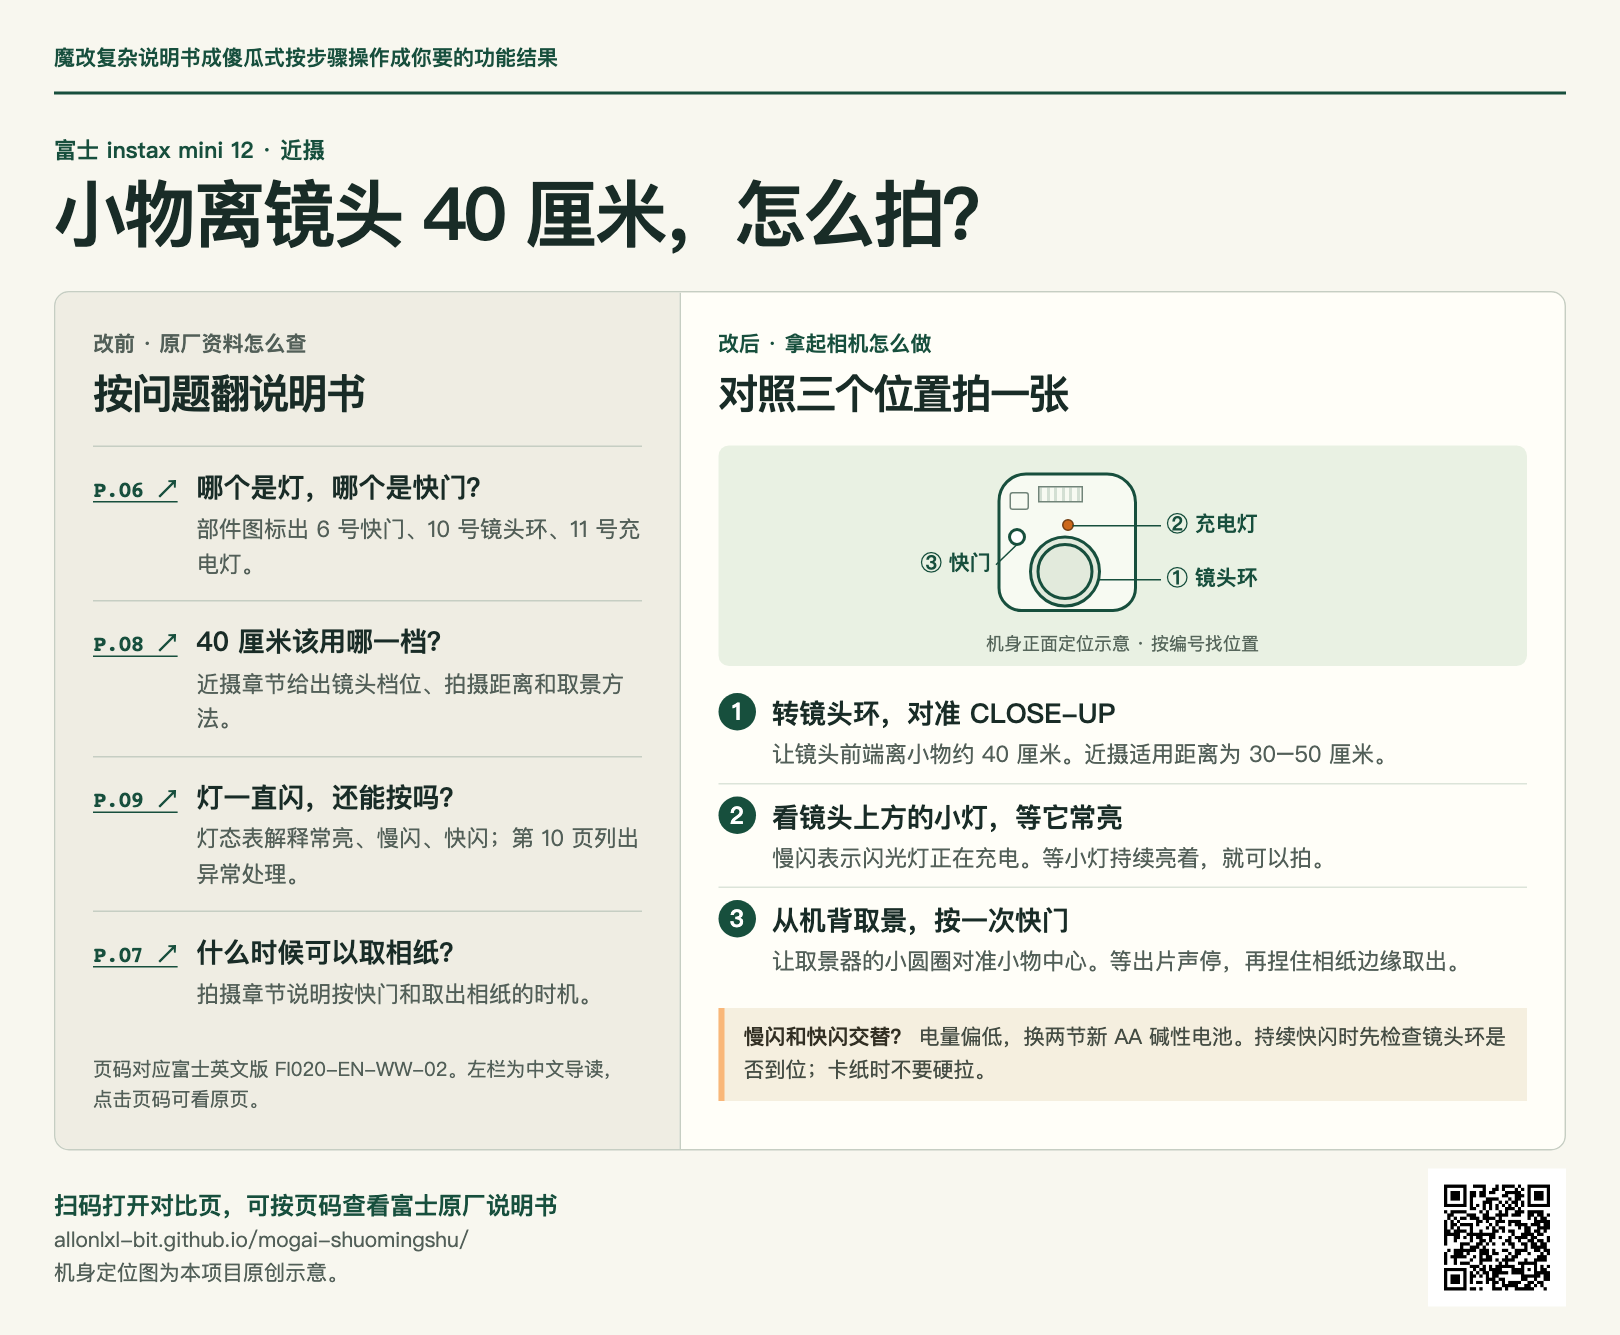
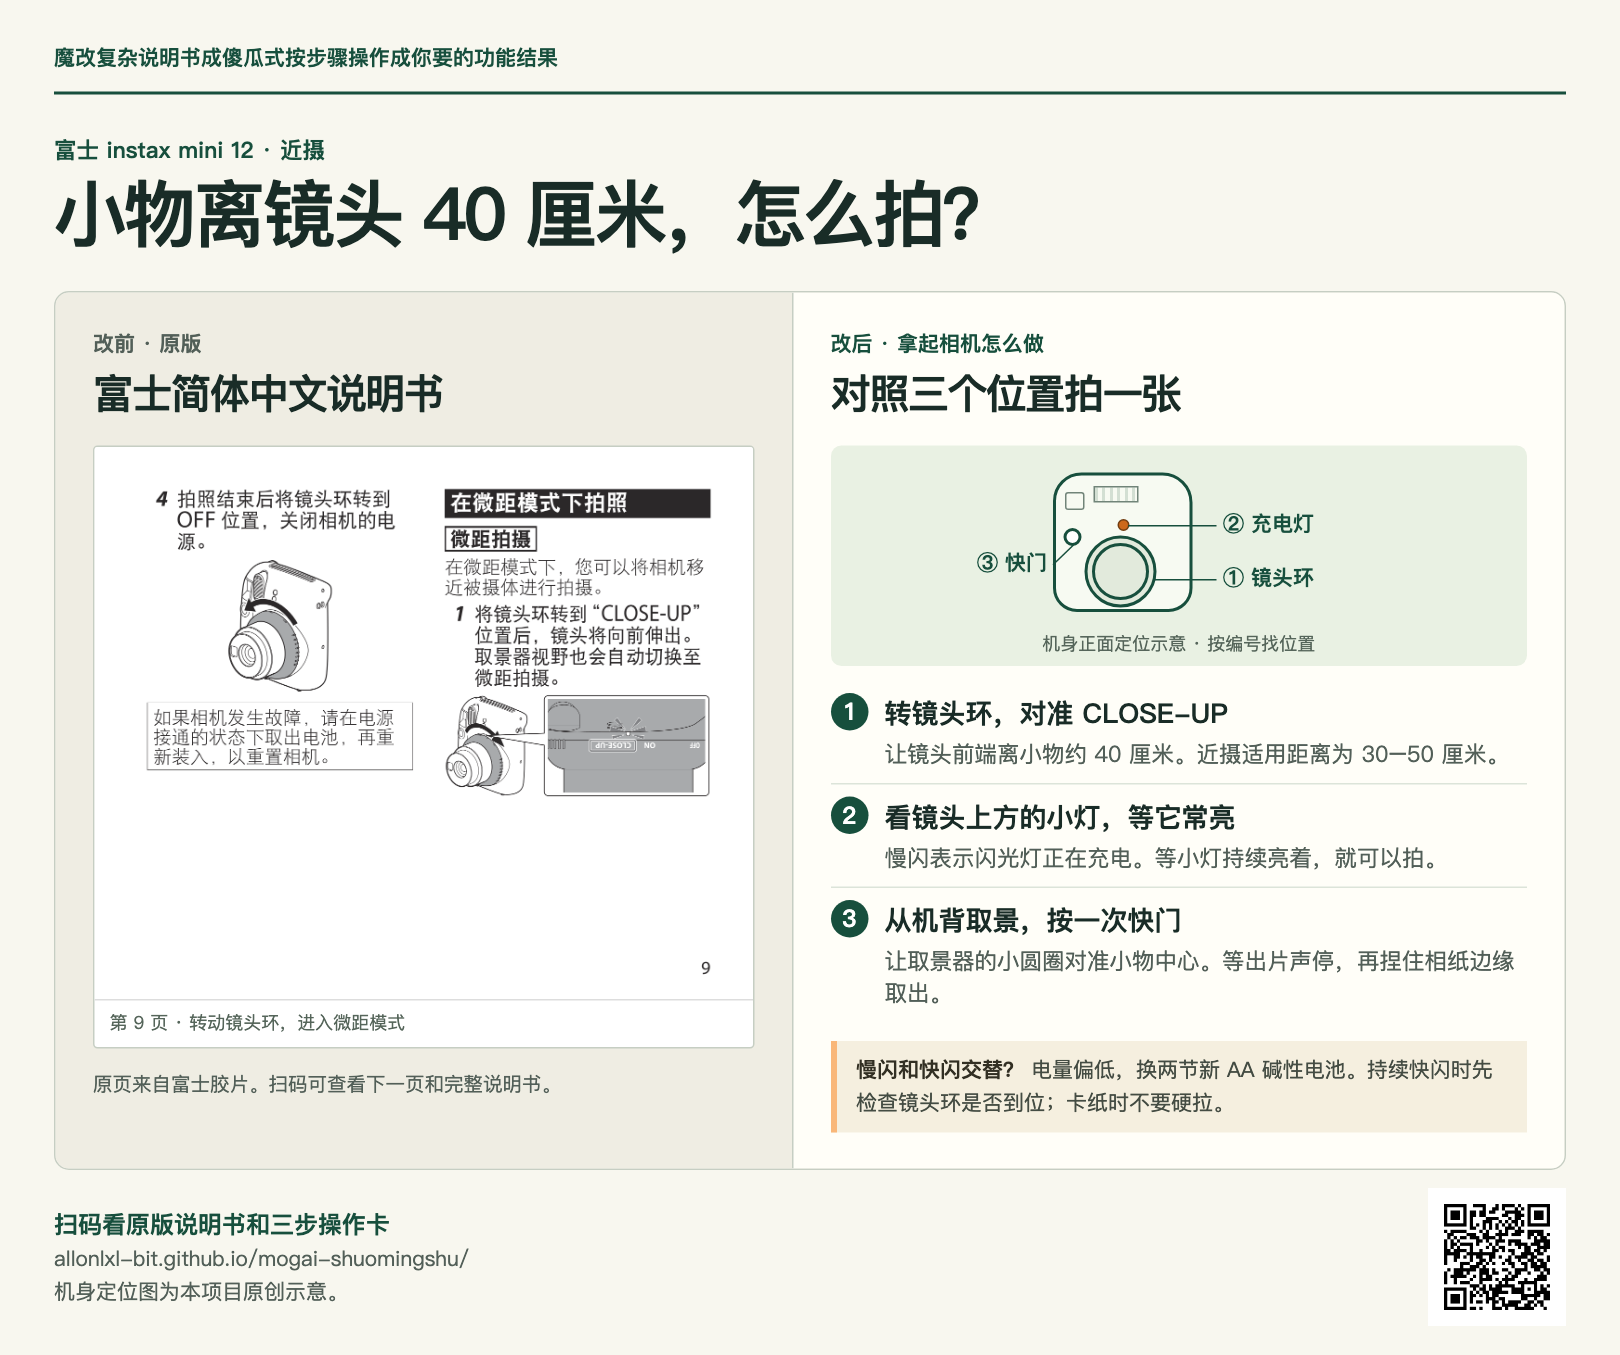
Show the original Fujifilm Chinese manual beside the close-up guide

diff --git a/docs/index.html b/docs/index.html
@@ -4,20 +4,21 @@
 <meta charset="utf-8">
 <meta name="viewport" content="width=device-width, initial-scale=1">
 <title>改前与改后：富士 mini 12 怎么拍好 40 厘米处的小物？</title>
-<meta name="description" content="同一个近摄问题，对照富士 mini 12 原厂手册页码和三步中文操作卡，找到镜头环、充电灯和快门。">
+<meta name="description" content="同一个近摄问题，对照富士 mini 12 原厂说明书原页和三步中文操作卡，找到镜头环、充电灯和快门。">
 <meta property="og:title" content="同一本说明书，改成三步就能照着拍">
 <meta property="og:description" content="富士 instax mini 12 实例：镜头转到哪一档，看到哪盏灯才按快门。">
 <meta property="og:type" content="website">
 <meta property="og:image" content="https://allonlxl-bit.github.io/mogai-shuomingshu/mini12-comparison.png">
-<meta property="og:image:alt" content="富士 mini 12 近摄，原厂手册阅读路径与三步操作卡并列对照">
+<meta property="og:image:alt" content="富士 mini 12 近摄，富士中文版原页与三步操作卡并列对照">
 <meta name="twitter:card" content="summary_large_image">
 <style>
 :root{--ink:#192c27;--green:#174f3d;--soft:#e9f1e3;--muted:#525f58;--rule:#c6cec3;--paper:#f8f7ef;--orange:#f9b779}
-*{box-sizing:border-box}body{margin:0;background:var(--paper);color:var(--ink);font:16px/1.55 "Inter","PingFang SC","Microsoft YaHei",sans-serif}main{max-width:1080px;margin:auto;padding:28px 36px 18px}a{color:inherit;text-underline-offset:.2em;text-decoration-thickness:1px}a:hover{color:#126840}a:focus-visible{outline:3px solid #ba580e;outline-offset:3px}.mast{display:flex;justify-content:space-between;gap:14px;align-items:baseline;border-bottom:2px solid var(--green);padding-bottom:11px;font-size:14px}.mast b{color:var(--green)}.mast a{white-space:nowrap}.intro{padding:25px 0 22px}.intro p{margin:0 0 3px;color:var(--green);font-size:15px;font-weight:700}h1{font-size:clamp(30px,4.5vw,49px);margin:0;line-height:1.2;letter-spacing:-.045em}h1 span{white-space:nowrap}.columns{display:grid;grid-template-columns:.88fr 1.25fr;border:1px solid var(--rule);border-radius:10px;overflow:hidden}.pane{padding:24px 25px}.before{background:#efede3}.after{background:#fffef8;border-left:1px solid var(--rule)}.kicker{margin:0;color:var(--muted);font-size:14px;font-weight:700}.after .kicker{color:var(--green)}h2{font-size:clamp(22px,2.5vw,29px);margin:1px 0 13px;letter-spacing:-.04em}.pages{list-style:none;margin:0;padding:0}.pages li{display:grid;grid-template-columns:59px 1fr;gap:10px;align-items:baseline;padding:13px 0;border-top:1px solid var(--rule)}.pages a{font:700 15px/1.3 ui-monospace,monospace;letter-spacing:-.04em;color:var(--green)}.pages strong{display:block;font-size:18px}.pages p,.steps p{margin:2px 0 0;color:var(--muted);font-size:15px}.source{margin:15px 0 0;font-size:13px;color:var(--muted)}
+*{box-sizing:border-box}body{margin:0;background:var(--paper);color:var(--ink);font:16px/1.55 "Inter","PingFang SC","Microsoft YaHei",sans-serif}main{max-width:1080px;margin:auto;padding:28px 36px 18px}a{color:inherit;text-underline-offset:.2em;text-decoration-thickness:1px}a:hover{color:#126840}a:focus-visible{outline:3px solid #ba580e;outline-offset:3px}.mast{display:flex;justify-content:space-between;gap:14px;align-items:baseline;border-bottom:2px solid var(--green);padding-bottom:11px;font-size:14px}.mast b{color:var(--green)}.mast a{white-space:nowrap}.intro{padding:25px 0 22px}.intro p{margin:0 0 3px;color:var(--green);font-size:15px;font-weight:700}h1{font-size:clamp(30px,4.5vw,49px);margin:0;line-height:1.2;letter-spacing:-.045em}h1 span{white-space:nowrap}.columns{display:grid;grid-template-columns:1fr 1.05fr;border:1px solid var(--rule);border-radius:10px;overflow:hidden}.pane{padding:24px 25px}.before{background:#efede3}.after{background:#fffef8;border-left:1px solid var(--rule)}.kicker{margin:0;color:var(--muted);font-size:14px;font-weight:700}.after .kicker{color:var(--green)}h2{font-size:clamp(22px,2.5vw,29px);margin:1px 0 13px;letter-spacing:-.04em}.steps p{margin:2px 0 0;color:var(--muted);font-size:15px}.source{margin:15px 0 0;font-size:13px;color:var(--muted)}
 figure{margin:0 0 10px;background:var(--soft);border-radius:7px;padding:9px 12px 6px}.diagram{height:114px;width:265px;max-width:100%;position:relative;margin:auto}.body{position:absolute;left:49px;top:9px;width:93px;height:93px;border:2px solid var(--green);border-radius:19px 20px 16px 16px;background:#f7faf2}.lens{position:absolute;left:70px;top:51px;width:48px;height:48px;border:7px double var(--green);border-radius:50%;background:#e2eadc}.shutter{position:absolute;left:56px;top:46px;width:12px;height:12px;background:#fff;border:2px solid var(--green);border-radius:50%}.lamp{position:absolute;left:92px;top:40px;width:8px;height:8px;background:#cc681b;border:1px solid #713d12;border-radius:50%}.view{position:absolute;left:57px;top:22px;width:13px;height:12px;border:1px solid #718479;border-radius:2px}.flash{position:absolute;left:76px;top:18px;width:30px;height:11px;border:1px solid #718479;background:repeating-linear-gradient(90deg,#d3dfd3 0 2px,transparent 2px 5px)}.call{position:absolute;padding:0 4px;background:var(--soft);color:var(--green);font-size:14px;font-weight:700;white-space:nowrap}.call:before{content:"";position:absolute;top:50%;border-top:1px solid var(--green)}.c1{left:158px;top:69px}.c1:before{width:42px;left:-42px}.c2{left:158px;top:33px}.c2:before{width:59px;left:-59px}.c3{left:-6px;top:59px}.c3:before{width:19px;left:100%;transform:rotate(-44deg);transform-origin:left center}figcaption{text-align:center;color:#55655a;font-size:12px}
 .steps{list-style:none;padding:0;margin:0}.steps li{display:grid;grid-template-columns:27px 1fr;gap:9px;padding:8px 0;border-bottom:1px solid #dce4d9}.steps li:last-child{border:0}.num{width:25px;height:25px;text-align:center;color:white;background:var(--green);border-radius:50%;font-weight:700;line-height:25px}.steps strong{font-size:18px}.steps p{line-height:1.45}.trouble{margin-top:13px;border-left:4px solid var(--orange);background:#f5efdf;padding:9px 13px;color:#444c43;font-size:14px}.trouble strong{color:#322f23}.links{display:flex;justify-content:space-between;gap:15px;align-items:baseline;padding-top:15px;font-size:14px}.links p{margin:0;color:var(--muted)}.links a{font-weight:650}.download{white-space:nowrap}
-@media(max-width:720px){main{padding:16px 14px}.mast{font-size:12px}.intro{padding:16px 0}.columns{grid-template-columns:1fr}.pane{padding:17px 18px}.after{border-left:0;border-top:1px solid var(--rule)}.pages li{padding:7px 0}.pages strong,.steps strong{font-size:17px}.links{flex-wrap:wrap}.source{margin-top:8px}}
+@media(max-width:720px){main{padding:16px 14px}.mast{font-size:12px}.intro{padding:16px 0}.columns{grid-template-columns:1fr}.pane{padding:17px 18px}.after{border-left:0;border-top:1px solid var(--rule)}.steps strong{font-size:17px}.links{flex-wrap:wrap}.source{margin-top:8px}}
 .poster-credit{display:none}.poster .links,.poster .mast a{display:none}.poster .poster-credit{display:flex;align-items:center;justify-content:space-between;padding-top:12px;color:var(--muted);font-size:14px;line-height:1.55}.poster-credit img{width:92px;height:92px}.poster-credit strong{font-size:16px;color:var(--green)}
+.manual-page{background:white;border:1px solid var(--rule);border-radius:3px;padding:0;overflow:hidden}.manual-page img{display:block;width:100%;height:auto}.manual-page a{display:block;cursor:zoom-in}.manual-page figcaption{padding:6px 10px;border-top:1px solid #ddd;text-align:left}.before summary{cursor:pointer;color:var(--green);font-weight:650;padding:7px 0}.poster details,.poster .source{display:none}.page-credit{display:none}.poster .page-credit{display:block;font-size:13px;color:var(--muted)}
 </style>
 </head>
 <body>
@@ -25,13 +26,10 @@ figure{margin:0 0 10px;background:var(--soft);border-radius:7px;padding:9px 12px
 <header class="mast"><b>魔改复杂说明书成傻瓜式按步骤操作成你要的功能结果</b><a href="https://github.com/allonlxl-bit/mogai-shuomingshu">GitHub 项目 ↗</a></header>
 <div class="intro"><p>富士 instax mini 12 · 近摄</p><h1>小物离镜头 <span>40 厘米，</span>怎么拍？</h1></div>
 <div class="columns">
-<section class="pane before" aria-labelledby="before"><p class="kicker">改前 · 原厂资料怎么查</p><h2 id="before">按问题翻说明书</h2>
-<ul class="pages">
-<li><a href="https://www.instax.com/mini_12/assets/pdf/manual_wwen.pdf#page=6">P.06 ↗</a><div><strong>哪个是灯，哪个是快门？</strong><p>部件图标出 6 号快门、10 号镜头环、11 号充电灯。</p></div></li>
-<li><a href="https://www.instax.com/mini_12/assets/pdf/manual_wwen.pdf#page=8">P.08 ↗</a><div><strong>40 厘米该用哪一档？</strong><p>近摄章节给出镜头档位、拍摄距离和取景方法。</p></div></li>
-<li><a href="https://www.instax.com/mini_12/assets/pdf/manual_wwen.pdf#page=9">P.09 ↗</a><div><strong>灯一直闪，还能按吗？</strong><p>灯态表解释常亮、慢闪、快闪；第 10 页列出异常处理。</p></div></li>
-<li><a href="https://www.instax.com/mini_12/assets/pdf/manual_wwen.pdf#page=7">P.07 ↗</a><div><strong>什么时候可以取相纸？</strong><p>拍摄章节说明按快门和取出相纸的时机。</p></div></li>
-</ul><p class="source">页码对应富士英文版 FI020-EN-WW-02。左栏为中文导读，点击页码可看原页。</p></section>
+<section class="pane before" aria-labelledby="before"><p class="kicker">改前 · 原版</p><h2 id="before">富士简体中文说明书</h2>
+<figure class="manual-page"><a href="mini12-manual-zh-9.png" aria-label="放大原版第 9 页"><img src="mini12-manual-zh-9.png" width="1418" height="1191" alt="富士 instax mini 12 简体中文说明书第 9 页，转动镜头环，进入微距模式"></a><figcaption>第 9 页 · 转动镜头环，进入微距模式</figcaption></figure>
+<details><summary>看第 10 页 · 拍摄距离和取景</summary><figure class="manual-page"><a href="mini12-manual-zh-10.png" aria-label="放大原版第 10 页"><img src="mini12-manual-zh-10.png" width="1418" height="1191" alt="富士 instax mini 12 简体中文说明书第 10 页，镜头距离小物 30–50 厘米"></a><figcaption>第 10 页 · 镜头距离小物 30–50 厘米</figcaption></figure></details><p class="page-credit">原页来自富士胶片。扫码可查看下一页和完整说明书。</p>
+<p class="source">原页来自富士胶片。点图可放大。<br><a href="https://www.instax.com/mini_12/assets/pdf/manual_wwzhs.pdf#page=9">打开完整原版说明书（24 页 PDF）↗</a></p></section>
 <section class="pane after" aria-labelledby="after"><p class="kicker">改后 · 拿起相机怎么做</p><h2 id="after">对照三个位置拍一张</h2>
 <figure><div role="img" aria-label="机身正面定位示意：中央靠下的大圆是镜头环，它上方的小点是充电灯，快门在镜头左上方。" class="diagram"><i class="body"></i><i class="flash"></i><i class="view"></i><i class="shutter"></i><i class="lens"></i><i class="lamp"></i><span class="call c1">① 镜头环</span><span class="call c2">② 充电灯</span><span class="call c3">③ 快门</span></div><figcaption>机身正面定位示意 · 按编号找位置</figcaption></figure>
 <ol class="steps"><li><span class="num">1</span><div><strong>转镜头环，对准 CLOSE-UP</strong><p>让镜头前端离小物约 40 厘米。近摄适用距离为 30–50 厘米。</p></div></li>
@@ -39,8 +37,8 @@ figure{margin:0 0 10px;background:var(--soft);border-radius:7px;padding:9px 12px
 <li><span class="num">3</span><div><strong>从机背取景，按一次快门</strong><p>让取景器的小圆圈对准小物中心。等出片声停，再捏住相纸边缘取出。</p></div></li></ol>
 <div class="trouble"><strong>慢闪和快闪交替？</strong> 电量偏低，换两节新 AA 碱性电池。持续快闪时先检查镜头环是否到位；卡纸时不要硬拉。</div>
 </section></div>
-<footer class="links"><p>公开演示依据<a href="https://www.instax.com/mini_12/assets/pdf/manual_wwen.pdf">富士原厂手册</a>整理，定位图为原创示意。</p><a class="download" href="mini12-comparison.png" download>保存对比图 ↓</a></footer>
-<div class="poster-credit"><div><strong>扫码打开对比页，可按页码查看富士原厂说明书</strong><br>allonlxl-bit.github.io/mogai-shuomingshu/<br>机身定位图为本项目原创示意。</div><img src="share-qr.png" alt="公开对比页二维码"></div>
+<footer class="links"><p>公开演示依据<a href="https://www.instax.com/mini_12/assets/pdf/manual_wwzhs.pdf">富士原厂手册</a>整理，定位图为原创示意。</p><a class="download" href="mini12-comparison.png" download>保存对比图 ↓</a></footer>
+<div class="poster-credit"><div><strong>扫码看原版说明书和三步操作卡</strong><br>allonlxl-bit.github.io/mogai-shuomingshu/<br>机身定位图为本项目原创示意。</div><img src="share-qr.png" alt="公开对比页二维码"></div>
 </main>
 </body>
 </html>

diff --git a/README.md b/README.md
@@ -4,9 +4,9 @@
 
 ## 改前 / 改后：用富士 mini 12 拍 40 厘米处的小物
 
-[打开手机对比页](https://allonlxl-bit.github.io/mogai-shuomingshu/) · [下载高清对比图](docs/mini12-comparison.png) · [对照富士原厂手册](https://www.instax.com/mini_12/assets/pdf/manual_wwen.pdf)
+[打开手机对比页](https://allonlxl-bit.github.io/mogai-shuomingshu/) · [下载高清对比图](docs/mini12-comparison.png) · [对照富士原厂手册](https://www.instax.com/mini_12/assets/pdf/manual_wwzhs.pdf#page=9)
 
-[![改前要按问题查部件图、近摄、灯态和取片章节；改后按图找到镜头环、充电灯和快门，三步完成近摄。](docs/mini12-comparison.png)](https://allonlxl-bit.github.io/mogai-shuomingshu/)
+[![左边是富士简体中文原版第 9 页，右边是标出镜头环、充电灯和快门的三步近摄操作卡。](docs/mini12-comparison.png)](https://allonlxl-bit.github.io/mogai-shuomingshu/)
 
 **[看一份做好的三步图解 →](examples/labels/README.md)**　打开随附的标签预览器，照三张图把「工具箱」改成四张，再切换方案验一次。
 
@@ -45,4 +45,4 @@ mkdir -p "$skill_root" &&
 
 [操作卡模板](skills/task-first-manual/references/operation-card.md)可直接改写。[审阅与修订表](skills/task-first-manual/references/review.md)附有[原页与裁图对照方法](skills/task-first-manual/references/review.md#裁图与成品走查)和可选的裁图小工具，帮助在排版前发现圈错按钮、相邻状态或插针的情况。
 
-本仓库的技能、示例程序、截图和文档以 [MIT 许可证](LICENSE)发布。使用技能制作其他产品手册时，该产品的图片与资料仍按各自授权使用。
+本仓库原创的技能、示例程序、截图和文档以 [MIT 许可证](LICENSE)发布。对比页和分享图中的原版说明书页面版权归富士胶片。使用技能制作其他产品手册时，该产品的图片与资料仍按各自授权使用。
